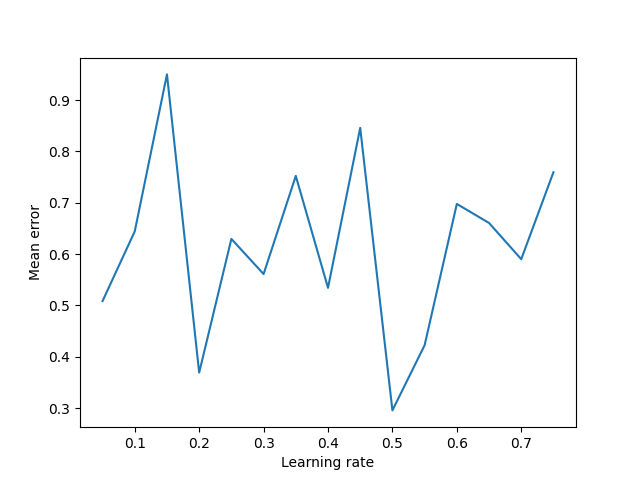
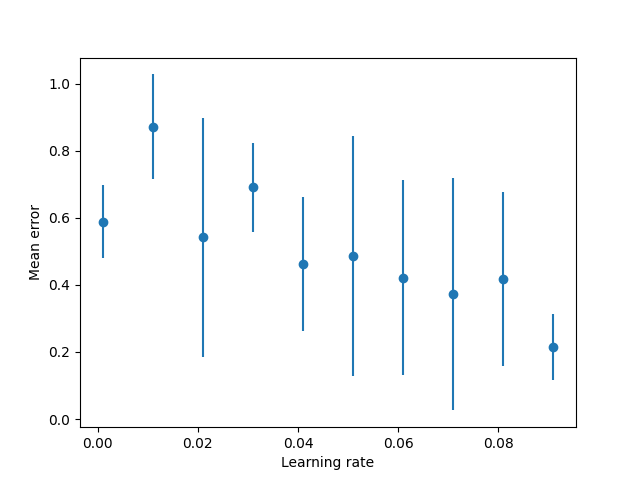
graph 3b

diff --git a/TP3/ej3B.py b/TP3/ej3B.py
@@ -47,10 +47,12 @@ X_train, X_test, y_train, y_test = train_test_split(X, y, test_size=0.3)
 
 
 # plot mean error change learning rate
-learning_rates = np.arange(0.05, 0.8, 0.05)
+learning_rates = np.arange(0.001, 0.1, 0.01)
 mean_errors_3b = []
+std_errors_3b = []
 for learning_rate in learning_rates:
     for i in range(10):
+        X_train, X_test, y_train, y_test = train_test_split(X, y, test_size=0.3)
         mlp = MultilayerPerceptron([35] + [10] + [1])
         mlp.train(X_train, y_train, epochs, learning_rate, convergence_threshold=0.001)
         errors = []
@@ -59,9 +61,10 @@ for learning_rate in learning_rates:
             error = np.abs(prediction - y_test[i])
             errors.append(error)
     mean_errors_3b.append(np.mean(errors))
+    std_errors_3b.append(np.std(errors))
        
-
-plt.plot(learning_rates, mean_errors_3b)
+plt.clf()
+plt.errorbar(learning_rates, mean_errors_3b, yerr=std_errors_3b, fmt='o')
 plt.xlabel('Learning rate')
 plt.ylabel('Mean error')
 plt.savefig('plots/TP3-ej3b1.png')
@@ -70,8 +73,10 @@ plt.savefig('plots/TP3-ej3b1.png')
 # plot mean error changing inner layer size
 inner_layer_sizes = np.arange(5, 20, 1)
 mean_errors_3b2 = []
+std_errors_3b2 = []
 for inner_layer_size in inner_layer_sizes:
-    mlp = MultilayerPerceptron([35] + inner_layer_size + [1])
+    X_train, X_test, y_train, y_test = train_test_split(X, y, test_size=0.3)
+    mlp = MultilayerPerceptron([35] + [inner_layer_size] + [1])
     mlp.train(X_train, y_train, epochs, learning_rate, convergence_threshold=0.001)
     errors = []
     for i in range(len(X_test)):
@@ -79,9 +84,10 @@ for inner_layer_size in inner_layer_sizes:
         error = np.abs(prediction - y_test[i])
         errors.append(error)
     mean_errors_3b2.append(np.mean(errors))
+    std_errors_3b2.append(np.std(errors))
 
 plt.clf()
-plt.plot(inner_layer_sizes, mean_errors_3b2)
+plt.errorbar(inner_layer_sizes, mean_errors_3b2, yerr=std_errors_3b2, fmt='o')
 plt.xlabel('Inner layer size')
 plt.ylabel('Mean error')
 plt.savefig('plots/TP3-ej3b2.png')
@@ -89,7 +95,9 @@ plt.savefig('plots/TP3-ej3b2.png')
 # plot mean error changing epochs
 epochs = np.arange(100, 10000, 100)
 mean_errors_3b3 = []
+std_errors_3b3 = []
 for epoch in epochs:
+    X_train, X_test, y_train, y_test = train_test_split(X, y, test_size=0.3)
     mlp = MultilayerPerceptron([35] + [10] + [1])
     mlp.train(X_train, y_train, epoch, learning_rate, convergence_threshold=0.001)
     errors = []
@@ -98,9 +106,10 @@ for epoch in epochs:
         error = np.abs(prediction - y_test[i])
         errors.append(error)
     mean_errors_3b3.append(np.mean(errors))
+    std_errors_3b3.append(np.std(errors))
 
 plt.clf()
-plt.plot(epochs, mean_errors_3b3)
+plt.errorbar(epochs, mean_errors_3b3, yerr=std_errors_3b3, fmt='o')
 plt.xlabel('Epochs')
 plt.ylabel('Mean error')
 plt.savefig('plots/TP3-ej3b3.png')
@@ -108,9 +117,12 @@ plt.savefig('plots/TP3-ej3b3.png')
 # plot mean error with 2 hidden layers and change neurons
 inner_layer_sizes = np.arange(5, 20, 1)
 mean_errors_3b4 = []
-for learning_rate in learning_rates:
+std_errors_3b4 = []
+epochs = 1000
+for inner_layer_size in inner_layer_sizes:
+    X_train, X_test, y_train, y_test = train_test_split(X, y, test_size=0.3)
     for i in range(10):
-        mlp = MultilayerPerceptron([35] + inner_layer_sizes + [1])
+        mlp = MultilayerPerceptron([35] + [inner_layer_size, inner_layer_size] + [1])
         mlp.train(X_train, y_train, epochs, learning_rate, convergence_threshold=0.001)
         errors = []
         for i in range(len(X_test)):
@@ -118,9 +130,10 @@ for learning_rate in learning_rates:
             error = np.abs(prediction - y_test[i])
             errors.append(error)
     mean_errors_3b4.append(np.mean(errors))
+    std_errors_3b4.append(np.std(errors))
 
 plt.clf()
-plt.plot(inner_layer_sizes, mean_errors_3b4)
+plt.errorbar(mean_errors_3b4, mean_errors_3b4, yerr=std_errors_3b4, fmt='o')
 plt.xlabel('Inner layers size')
 plt.ylabel('Mean error')
 plt.savefig('plots/TP3-ej3b4.png')
